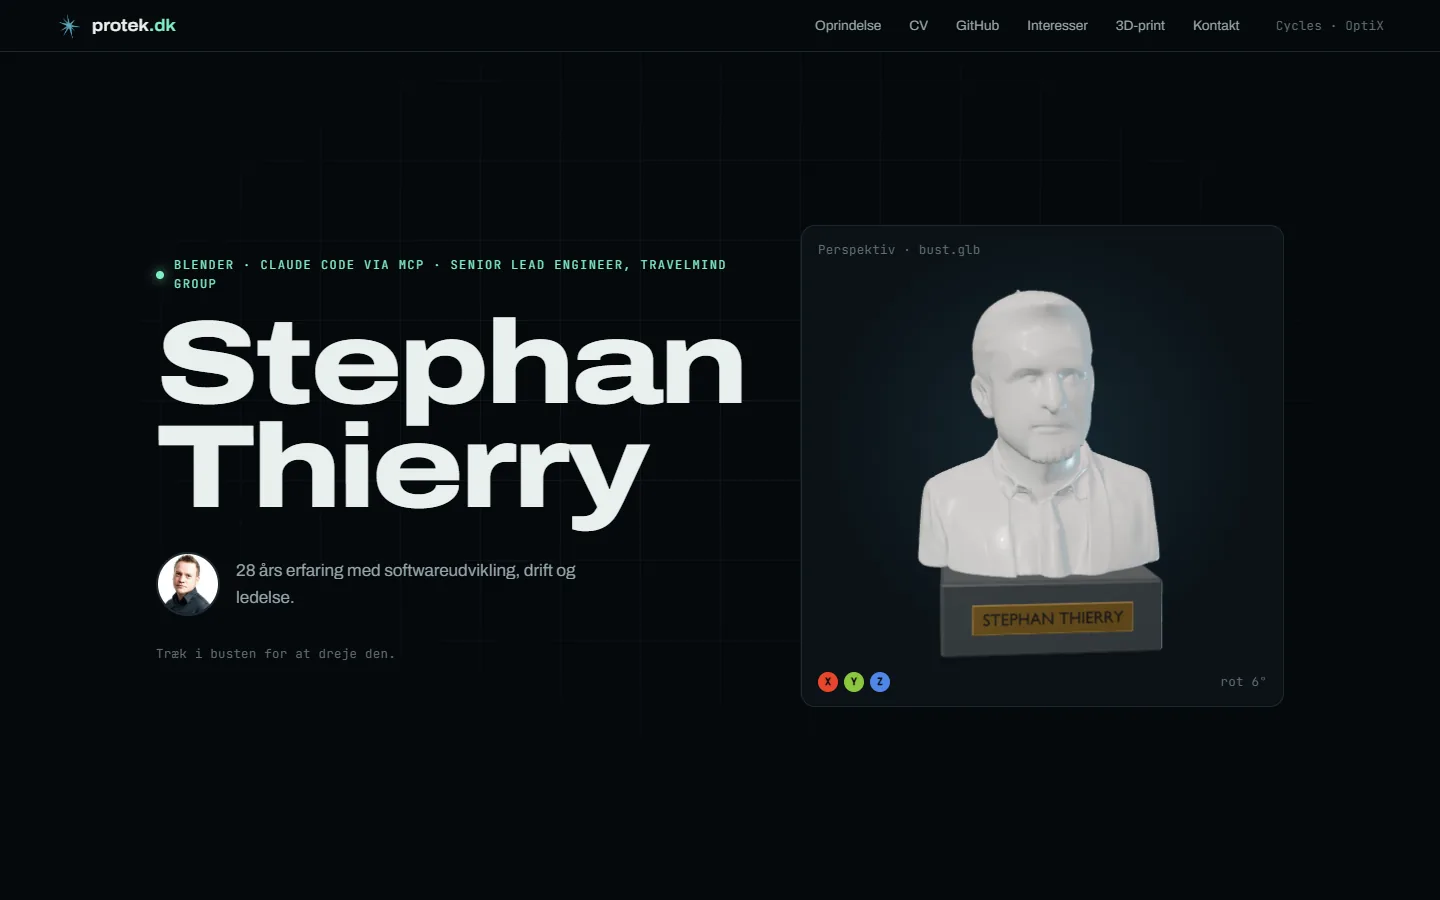
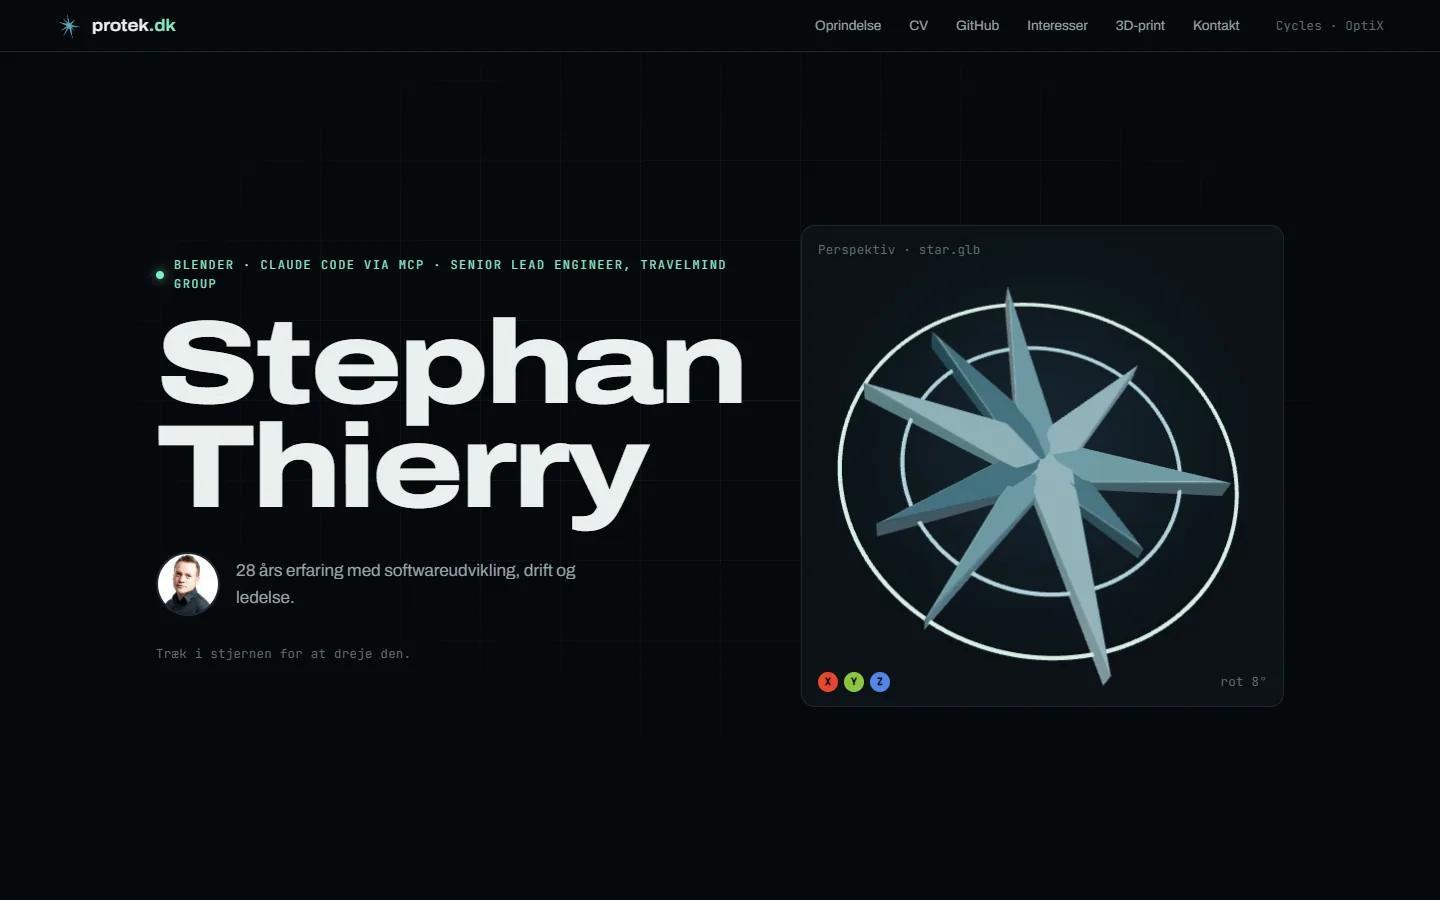
Blender design: animated star back in the hero, bust next to Kontakt
The rotating marble bust replaces the 3D-printed speech bubble in the
contact section; the hero shows the draggable Protek star again.
contact.glb/webp removed (build_contact kept in scene.py for reference),
showcase screenshot and PROCESS.md/README updated.

Changed region(s): [[0.5625, 0.3111, 0.875, 0.7467], [0.1562, 0.7156, 0.2188, 0.7467], [0.25, 0.7156, 0.2812, 0.7467]]

diff --git a/designs/blender/src/views.js b/designs/blender/src/views.js
@@ -44,16 +44,6 @@ function printMaterial() {
   return m;
 }
 
-// The speech bubble outline from scene.py (BUBBLE), so the nozzle can trace the layer being printed.
-const BUBBLE = { hx: 1.6, z1: 2.2, r: 0.55, tailZ: 0.9, tailTip: -2.15, depth: 0.5 };
-function bubbleSpan(h) {
-  const { hx, z1, r, tailZ, tailTip } = BUBBLE;
-  const corner = (dz) => hx - r + Math.sqrt(Math.max(0, r * r - dz * dz));
-  const right = h < r ? corner(r - h) : h > z1 - r ? corner(h - (z1 - r)) : hx;
-  const left = h > z1 - r ? -corner(h - (z1 - r)) : h >= tailZ ? -hx : tailTip + (-hx - tailTip) * (h / tailZ);
-  return [left, right];
-}
-
 // name -> how to load, orient and animate it. `dir` is the camera direction, `fill` how much of the frame it fills.
 const DEFS = {
   star: {
@@ -101,50 +91,10 @@ const DEFS = {
     },
     tick: (v, t) => { v.pivot.rotation.y = Math.sin(t * 0.4) * 0.9; v.pivot.rotation.x = Math.sin(t * 0.27) * 0.15; },
   },
-  contact: {
-    // A speech bubble 3D-printed live: the clipping plane is the current layer, the nozzle traces it.
-    url: 'models/contact.glb', dir: [0.45, 0.32, 1], fill: 1.05,
-    setup: (m, v) => {
-      v.m = m;
-      v.clip = new THREE.Plane(new THREE.Vector3(0, -1, 0), 0);
-      v.dots = [];
-      m.traverse((o) => {
-        if (o.name === 'Bubble') {
-          o.material = printMaterial();
-          o.material.clippingPlanes = [v.clip];
-          o.material.side = THREE.DoubleSide;
-        } else if (/^Dot\d/.test(o.name)) {
-          o.material = o.material.clone();
-          o.material.clippingPlanes = [v.clip];
-          v.dots.push(o);
-        } else if (o.name === 'Nozzle') {
-          v.nozzle = o;
-          v.home = o.position.clone();
-        }
-      });
-      v.dots.sort((a, b) => a.name.localeCompare(b.name));
-    },
-    tick: (v, t) => {
-      v.pivot.rotation.y = Math.sin(t * 0.35) * 0.5;
-      const T = 10, p = t % T, H = BUBBLE.z1 + 0.02;
-      const tri = (x) => 1 - Math.abs(((x % 2) + 2) % 2 - 1);   // 0..1..0 triangle wave
-      let h;
-      if (p < 6) h = H * (p / 6);                                // printing
-      else if (p < 8.5) h = H;                                  // done: nozzle parks, dots "type"
-      else h = H * (1 - (p - 8.5) / 1.5);                       // print it out again from the top
-      v.clip.constant = h + v.m.position.y + 0.001;
-      // nozzle: zig-zags across the current layer while printing, otherwise parks at home
-      const [x0, x1] = bubbleSpan(Math.min(h, BUBBLE.z1 - 0.001));
-      const work = new THREE.Vector3(x0 + (x1 - x0) * tri(p * 2.4), h + 0.01, (tri(p * 0.8) - 0.5) * BUBBLE.depth * 0.8);
-      const k = p < 6 ? Math.min(1, p / 0.4) : p < 6.6 ? 1 - (p - 6) / 0.6 : 0;
-      const e = k * k * (3 - 2 * k);
-      v.nozzle.position.copy(v.home).lerp(work, e);
-      // typing indicator once the print is finished
-      v.dots.forEach((d, i) => {
-        const s = p >= 6.6 && p < 8.5 ? 1 + 0.28 * Math.max(0, Math.sin((p - 6.6) * 7 - i * 0.9)) : 1;
-        d.scale.setScalar(s);
-      });
-    },
+  bust: {
+    // marble bust: head from TRELLIS, finished in Blender (build_bust); turns slowly on its plinth
+    url: 'models/bust.glb', dir: [0, 0.14, 1], fill: 1.0,
+    tick: (v, t) => { v.pivot.rotation.y = t * 0.4; },
   },
   layers: {
     url: 'models/layers.glb', dir: [0.35, 0.65, 0.8], fill: 1.15,
@@ -205,7 +155,6 @@ export function initViews() {
   renderer.setPixelRatio(Math.min(devicePixelRatio, 2));
   renderer.outputColorSpace = THREE.SRGBColorSpace;
   renderer.setClearColor(0x000000, 0);
-  renderer.localClippingEnabled = true; // the contact bubble is 'printed' with a clipping plane
   const env = new THREE.PMREMGenerator(renderer).fromScene(new RoomEnvironment(), 0.04).texture;
 
   const loader = new GLTFLoader().setMeshoptDecoder(MeshoptDecoder);

diff --git a/designs/blender/src/main.js b/designs/blender/src/main.js
@@ -3,7 +3,6 @@ import * as THREE from 'three';
 import { GLTFLoader } from 'three/examples/jsm/loaders/GLTFLoader.js';
 import { RoomEnvironment } from 'three/examples/jsm/environments/RoomEnvironment.js';
 import { initViews } from './views.js';
-import { MeshoptDecoder } from 'three/examples/jsm/libs/meshopt_decoder.module.js';
 
 const $ = (s, r = document) => r.querySelector(s);
 const $$ = (s, r = document) => [...r.querySelectorAll(s)];
@@ -14,7 +13,7 @@ $$('[data-years-since]').forEach((el) => {
   el.textContent = new Date().getFullYear() - Number(el.dataset.yearsSince);
 });
 
-// ---------------------------------------------------------------- hero: the marble bust (head from TRELLIS, finished in Blender)
+// ---------------------------------------------------------------- hero: the live star (GLB from Blender)
 
 (function hero() {
   const canvas = $('#star');
@@ -47,25 +46,29 @@ $$('[data-years-since]').forEach((el) => {
   scene.add(key, rim, fill);
 
   const camera = new THREE.PerspectiveCamera(32, 1, 0.1, 100);
-  camera.position.set(0, 0, 11);
+  camera.position.set(0, 0, 12.8);
 
-  // Pivot: user rotation goes on `spin`; the bust is centred on it so it turns around its own vertical axis.
+  // Pivot: user rotation goes on `spin`, the model itself is turned from glTF Y-up to face the camera.
   const spin = new THREE.Group();
   scene.add(spin);
 
-  new GLTFLoader().setMeshoptDecoder(MeshoptDecoder).load('models/bust.glb', (gltf) => {
+  new GLTFLoader().load('models/star.glb', (gltf) => {
     const m = gltf.scene;
-    const c = new THREE.Box3().setFromObject(m).getCenter(new THREE.Vector3());
-    m.position.sub(c);
+    m.rotation.x = Math.PI / 2;
+    m.traverse((o) => {
+      if (o.isMesh && o.material && o.material.emissiveIntensity !== undefined && o.name.includes('ring')) {
+        o.material.emissiveIntensity *= 1.4;
+      }
+    });
     spin.add(m);
     document.body.classList.add('gl-ready');
   }, undefined, (e) => {
-    console.warn('bust.glb failed to load, showing the render instead:', e);
+    console.warn('star.glb failed to load, showing the render instead:', e);
     document.body.classList.add('no-gl');
   });
 
   // Rotation state: drag with inertia, slow idle spin, slight lean toward the pointer.
-  let yaw = -0.35, pitch = 0.06, vy = 0, vp = 0, dragging = false, lx = 0, ly = 0;
+  let yaw = -0.35, pitch = -0.5, vy = 0, vp = 0, dragging = false, lx = 0, ly = 0;
   let leanX = 0, leanY = 0, tx = 0, ty = 0;
   stage.addEventListener('pointerdown', (e) => {
     dragging = true; lx = e.clientX; ly = e.clientY;
@@ -75,7 +78,7 @@ $$('[data-years-since]').forEach((el) => {
   stage.addEventListener('pointermove', (e) => {
     if (!dragging) return;
     vy = (e.clientX - lx) * 0.006; vp = (e.clientY - ly) * 0.006;
-    yaw += vy; pitch = THREE.MathUtils.clamp(pitch + vp, -0.5, 0.5);
+    yaw += vy; pitch += vp;
     lx = e.clientX; ly = e.clientY;
   });
   const end = () => { dragging = false; stage.classList.remove('is-dragging'); };
@@ -90,7 +93,7 @@ $$('[data-years-since]').forEach((el) => {
     const r = stage.getBoundingClientRect();
     renderer.setSize(r.width, r.height, false);
     camera.aspect = r.width / r.height;
-    camera.position.z = camera.aspect < 0.8 ? 13 : 11;
+    camera.position.z = camera.aspect < 0.8 ? 15 : 12.8;
     camera.updateProjectionMatrix();
   }
   new ResizeObserver(resize).observe(stage);
@@ -108,7 +111,7 @@ $$('[data-years-since]').forEach((el) => {
       yaw += vy; pitch += vp;
       vy *= 0.94; vp *= 0.94;
       yaw += dt * (reduced ? 0.05 : 0.18);
-      pitch += (0.06 - pitch) * dt * 0.8; // ease back toward the resting tilt
+      pitch += (-0.5 - pitch) * dt * 0.8; // ease back toward the resting tilt
     }
     leanX += (tx - leanX) * 0.05;
     leanY += (ty - leanY) * 0.05;

diff --git a/designs/blender/index.html b/designs/blender/index.html
@@ -33,8 +33,8 @@
   <section class="hero">
     <div class="hero__stage" aria-hidden="true">
       <canvas id="star"></canvas>
-      <img class="hero__fallback" src="renders/bust.webp" alt="" width="1400" height="1600">
-      <span class="hud hud--tl mono">Perspektiv · bust.glb</span>
+      <img class="hero__fallback" src="renders/star.webp" alt="" width="1600" height="1600">
+      <span class="hud hud--tl mono">Perspektiv · star.glb</span>
       <span class="hud hud--br mono" data-hud-rot>rot 0°</span>
       <span class="gizmo" aria-hidden="true"><i class="gx">X</i><i class="gy">Y</i><i class="gz">Z</i></span>
     </div>
@@ -45,7 +45,7 @@
         <img class="hero__portrait" src="img/stephan_profile.jpg" width="400" height="400" alt="Stephan Thierry">
         <p><span data-years-since="1998">28</span> års erfaring med softwareudvikling, drift og ledelse.</p>
       </div>
-      <p class="hint mono">Træk i busten for at dreje den.</p>
+      <p class="hint mono">Træk i stjernen for at dreje den.</p>
     </div>
   </section>
 
@@ -330,8 +330,8 @@ build_all(); render_all(<span class="n">256</span>); check_print(<span class="n"
 
   <!-- 6 · Contact -->
   <section class="sec contact" id="kontakt">
-    <figure class="contact__at reveal" data-tilt data-model="contact">
-      <img src="renders/contact.webp" alt="" width="1400" height="1400" loading="lazy">
+    <figure class="contact__at reveal" data-tilt data-model="bust">
+      <img src="renders/bust.webp" alt="Marmorbuste af Stephan Thierry på en sokkel med messingskilt" width="1400" height="1600" loading="lazy">
     </figure>
     <div class="reveal">
       <h2 class="big">Kontakt</h2>

diff --git a/site/index.html b/site/index.html
@@ -349,7 +349,7 @@
       <li class="design" style="--c:#F5A23A" data-tilt>
         <a class="shot" href="/designs/blender/" target="_blank" rel="noopener" aria-label="Åbn Blender">
           <span class="shot__bar"><i></i><i></i><i></i><span>protek.dk/designs/blender</span></span>
-          <img src="img/designs/blender.webp" width="1440" height="900" alt="Blender: en roterende marmorbuste af Stephan Thierry ved siden af navnet" loading="lazy">
+          <img src="img/designs/blender.webp" width="1440" height="900" alt="Blender: Proteks stjerne i 3D med to ringe ved siden af navnet" loading="lazy">
         </a>
         <p class="design__no">06 · AI</p>
         <h3>Blender</h3>

diff --git a/designs/blender/blender/scene.py b/designs/blender/blender/scene.py
@@ -497,7 +497,7 @@ def bubble_outline(seg=10):
 
 
 def build_contact():
-    """Contact: a speech bubble with '...' that the page 3D-prints live, plus the hotend and the print bed."""
+    """Former contact element (replaced by the bust, kept for reference): a speech bubble with '...' that the page 3D-prints live, plus the hotend and the print bed."""
     c = coll('Contact')
     pla = pla_mat('PLA_contact', PAL['mint'])
     d = BUBBLE['depth']
@@ -607,7 +607,6 @@ SHOTS = {
     'ghstar':  ('GhStar',      (1.5, -5.2, 5.4),  (0, 0, 0),    55, (1400, 1400)),
     'knot':    ('Knot',        (0, -8.5, 6.5),    (0, 0, 0),    50, (1400, 1400)),
     'prism':   ('Prism',       (0.5, -3.4, 11.5), (0.5, -0.7, 0), 45, (2000, 1250)),
-    'contact': ('Contact',     (2.6, -8.5, 4.2),  (0, 0, 1.5),  45, (1400, 1400)),
     'print':   ('PrintBed',    (3.5, -8.0, 5.6),  (0, 0, 0.0),  45, (1600, 1200)),
     'layers':  ('PrintLayers', (4.0, -8.0, 6.2),  (0, 0, 1.0),  50, (1600, 1200)),
 }
@@ -623,7 +622,6 @@ def build_all():
     build_ghstar()
     build_knot()
     build_prism()
-    build_contact()
     build_print_bed()
     build_print_layers()
     build_dancers()
@@ -982,11 +980,11 @@ def _join(objs, name):
 
 
 def export_element_glbs():
-    """helix, ghstar, knot, prism, contact and layers (one node per layer). The printed star reuses star.glb."""
+    """helix, ghstar, knot, prism and layers (one node per layer). The printed star reuses star.glb."""
     for c in bpy.context.scene.collection.children:
         c.hide_viewport = False
     out = {}
-    for key_, cname in (('helix', 'Helix'), ('ghstar', 'GhStar'), ('knot', 'Knot'), ('prism', 'Prism'), ('contact', 'Contact')):
+    for key_, cname in (('helix', 'Helix'), ('ghstar', 'GhStar'), ('knot', 'Knot'), ('prism', 'Prism')):
         out[key_] = _export(list(bpy.data.collections[cname].objects), f'{key_}.glb')
     # slicer view: one node per layer (named L0..), so the page can pull them apart and together
     layers = {}

diff --git a/designs/blender/PROCESS.md b/designs/blender/PROCESS.md
@@ -8,6 +8,7 @@ The short version: **Claude Code drives Blender 5.2 through the Blender MCP serv
 Python code in [`blender/scene.py`](blender/scene.py), rendered in Cycles as a fallback image, exported as a
 GLB, and shown live and rotating in the browser with Three.js. The one exception is the head of the marble
 bust, which is generated from a portrait photo with **TRELLIS** and then finished in Blender by the same script.
+The animated star is the hero; the bust turns on its plinth next to the contact heading.
 
 ---
 
@@ -106,7 +107,7 @@ established showcase. That made a site built this way a useful example in its ow
 | Prism | `build_prism` | glass triangular prism, white beam in, five coloured rays out (the five AI designs) | swings back and forth; glass replaced by a transparent physical material for stable rendering in the shared canvas |
 | Slicer view | `build_print_layers` | the star cut into 8 horizontal slabs with bmesh bisect and filled caps, pulled apart | rotates while the layers pull apart and stack back together (one node per layer, via `_join`) |
 | Printed star | reuses `star.glb` | mint PLA | rotates; layer lines drawn in a shader from object height (exaggerated so they read on screen) |
-| Contact | `build_contact` | speech bubble with "..." standing flat on the bed, 60 degree tail (printable without support), hotend with brass nozzle, PEI bed | 3D-printed live: a clipping plane rises as the current layer, the nozzle traces the layer outline (`bubbleSpan`), dots pulse like a typing indicator, then it prints out again |
+| Contact (replaced by the bust) | `build_contact` | speech bubble with "..." standing flat on the bed, 60 degree tail (printable without support), hotend with brass nozzle, PEI bed | 3D-printed live: a clipping plane rises as the current layer, the nozzle traces the layer outline (`bubbleSpan`), dots pulse like a typing indicator, then it prints out again |
 | AI dancers | `build_claude`, `build_openai`, `build_gemini` | pixel Claude from the site's SVG as blocks; a coin with the OpenAI mark from `openai.jpg` as texture; the Gemini sparkle from its SVG path, extruded with a vertex-colour gradient | one 4 second keyframed clip (`export_animation_mode='SCENE'`) played with an AnimationMixer; also used on the particle front page |
 
 Iterations worth recording:
@@ -176,7 +177,8 @@ likeness: goatee, jaw line, expression and collar.
 5. Decimate to about 180,000 faces, smooth shading, marble material (warm white, faint veins, subsurface).
 6. Dark stone plinth with a brass plaque reading "STEPHAN THIERRY".
 
-**Output.** `bust.glb` (1.6 MB with meshopt) in the hero viewport, and `bust.webp` as fallback. The footer credits
+**Output.** `bust.glb` (1.6 MB with meshopt), shown rotating next to the contact heading (first in the hero, moved there on
+request so the animated star could return to the hero), and `bust.webp` as fallback. The footer credits
 TRELLIS. The photos are not in the repo.
 
 ## 5. Formats
@@ -191,12 +193,12 @@ TRELLIS. The photos are not in the repo.
 | Materials | Principled BSDF to glTF PBR + KHR_materials_clearcoat, transmission, emissive_strength | gradients and iridescence that do not export are added in JS |
 
 Model sizes: bust 1.6 MB, helix 452 KB, star 306 KB, knot 241 KB, dancers 168 KB, layers 111 KB,
-contact 61 KB, prism 31 KB, ghstar 9 KB.
+prism 31 KB, ghstar 9 KB.
 
 ## 6. In the browser
 
-- **Hero (`src/main.js`):** its own WebGL renderer for the bust. Drag rotation with inertia and a pitch clamp,
-  a slow idle spin, a slight lean toward the pointer, and paused when off screen.
+- **Hero (`src/main.js`):** its own WebGL renderer for the animated star. Drag rotation with inertia, a slow idle
+  spin, a slight lean toward the pointer, and paused when off screen.
 - **Everything else (`src/views.js`):** one fixed, full-viewport canvas draws every model into the rectangle of
   its frame with **scissor viewports**, so nine models cost a single WebGL context. Models load when their frame
   is within one screen of the viewport. Each model is centred and fitted to its frame: by bounding sphere, or by
@@ -236,7 +238,7 @@ contact 61 KB, prism 31 KB, ghstar 9 KB.
 | Bust: TRELLIS dependencies | install nvdiffrast, the Gaussian rasteriser, kaolin | stub them, mesh path only | they are only needed for rendering and texture baking, and some are non-commercial licenses |
 | Bust: memory | ask for a pagefile (system change, restart) | lean loading, separate processes, apps closed for the run | no system change needed |
 | Bust: hair | keep the generated strands; Laplacian smoothing | shrinkwrap onto a smoothed volume | smoothing does not remove thin double-sided sheets; stone busts have sculpted hair anyway |
-| Bust placement | contact section; front page portrait | hero viewport of this design | most visible, fits the theme; the star stays in the Oprindelse section |
+| Bust placement | hero viewport (tried first); front page portrait | contact section | the owner wanted the animated star back in the hero; next to "Kontakt" the bust works as a personal sign-off. It replaced the 3D-printed speech bubble |
 | Where the design lives | `/blender` | `/designs/blender/` like the other designs | the owner's call once it joined the showcase |
 
 ## 9. Reproducing
@@ -248,7 +250,7 @@ exec(open(r'<repo>/designs/blender/blender/scene.py', encoding='utf-8').read())
 build_all()              # every element except the bust, in its own collection
 render_all(256)          # public/renders/*.webp
 export_star_glb()        # merged star + rings
-export_element_glbs()    # helix, ghstar, knot, prism, contact, layers (meshopt)
+export_element_glbs()    # helix, ghstar, knot, prism, layers (meshopt)
 export_dancers_glb()     # also copied to site/public/models for the front page
 check_print(80)          # the numbers in the 3D print section
 ```

diff --git a/README.md b/README.md
@@ -12,7 +12,7 @@ Stephan Thierry's personal site. The front page is the particle design; the othe
 | `designs/bauhaus/` | `/designs/bauhaus/` | Bauhaus playground with Matter.js physics (Vite). |
 | `designs/tidende/` | `/designs/tidende/` | Protek Tidende, a newspaper front page typeset live with Pretext (Vite). |
 | `designs/ebru/` | `/designs/ebru/` | Ebru, marbling on water: WebGPU/TSL stable fluids (Vite). |
-| `designs/blender/` | `/designs/blender/` | Every 3D element modelled in Blender by Claude Code via the Blender MCP server and shown as live, rotating GLBs in Three.js (one shared canvas with scissor viewports, `src/views.js`) (Vite). Includes a section on the 3D-print workflow. The full process (tools, steps, formats, validation, alternatives) is in [`designs/blender/PROCESS.md`](designs/blender/PROCESS.md). The hero is a marble bust: the head is generated from a portrait photo with TRELLIS (Microsoft, MIT; `blender/trellis_bust.py`, run outside the repo) and finished in Blender by `build_bust()`. `blender/scene.py` rebuilds the scene and renders: run it in Blender via MCP (`build_all(); render_all(); export_star_glb(); export_element_glbs(); export_dancers_glb(); check_print()`). The contact element is a speech bubble 3D-printed live (clipping plane + nozzle, `contact` in `src/views.js`).. |
+| `designs/blender/` | `/designs/blender/` | Every 3D element modelled in Blender by Claude Code via the Blender MCP server and shown as live, rotating GLBs in Three.js (one shared canvas with scissor viewports, `src/views.js`) (Vite). Includes a section on the 3D-print workflow. The full process (tools, steps, formats, validation, alternatives) is in [`designs/blender/PROCESS.md`](designs/blender/PROCESS.md). The contact section shows a marble bust: the head is generated from a portrait photo with TRELLIS (Microsoft, MIT; `blender/trellis_bust.py`, run outside the repo) and finished in Blender by `build_bust()`. `blender/scene.py` rebuilds the scene and renders: run it in Blender via MCP (`build_all(); render_all(); export_star_glb(); export_element_glbs(); export_dancers_glb(); check_print()`). The contact element is a speech bubble 3D-printed live (clipping plane + nozzle, `contact` in `src/views.js`).. |
 | `react/` | `/react/` | The ReactJS presentation from Ditmer Academy 2016. Not deployed from here. |
 
 The six AI designs were made with AI in 2 hours combined; the legacy site took a full day by hand.
